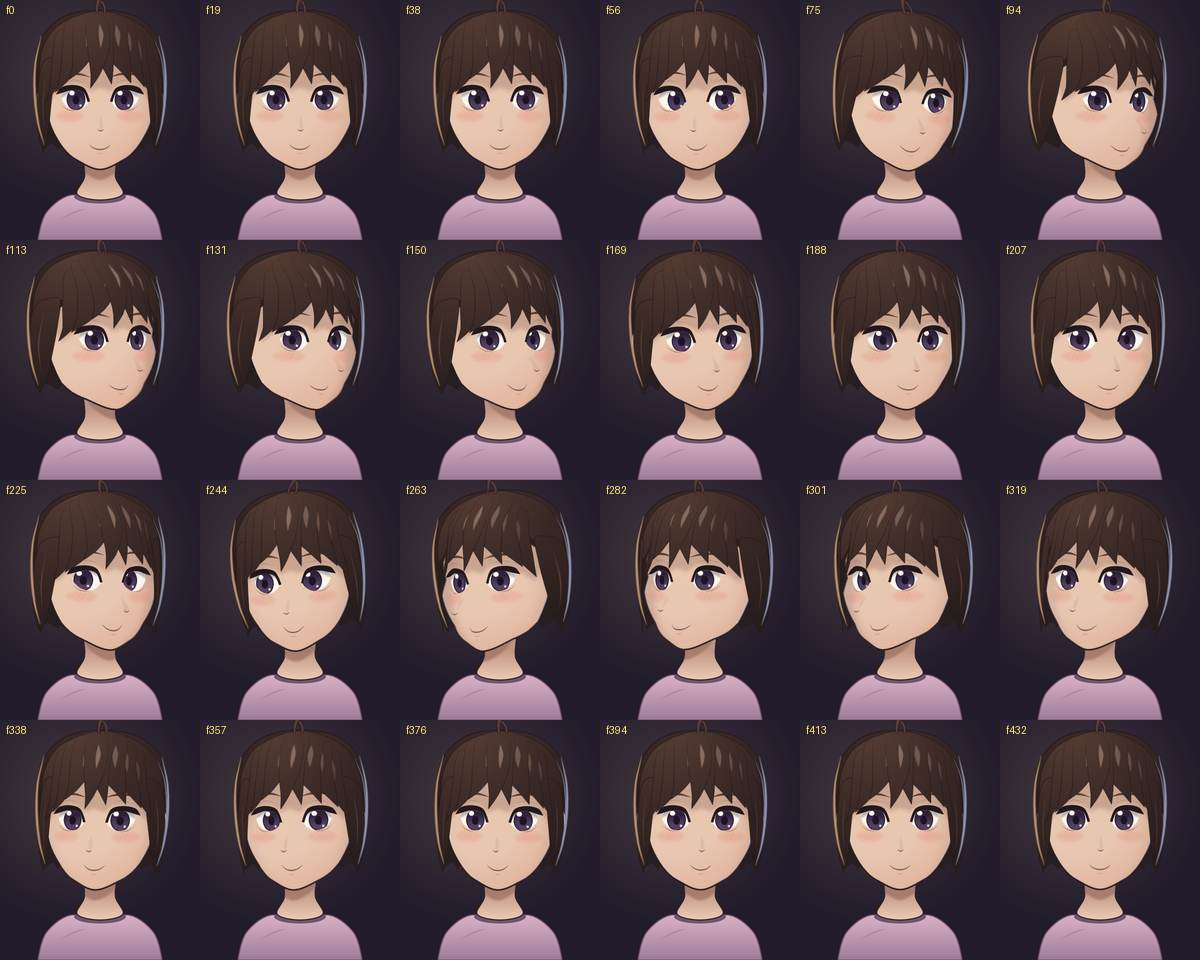
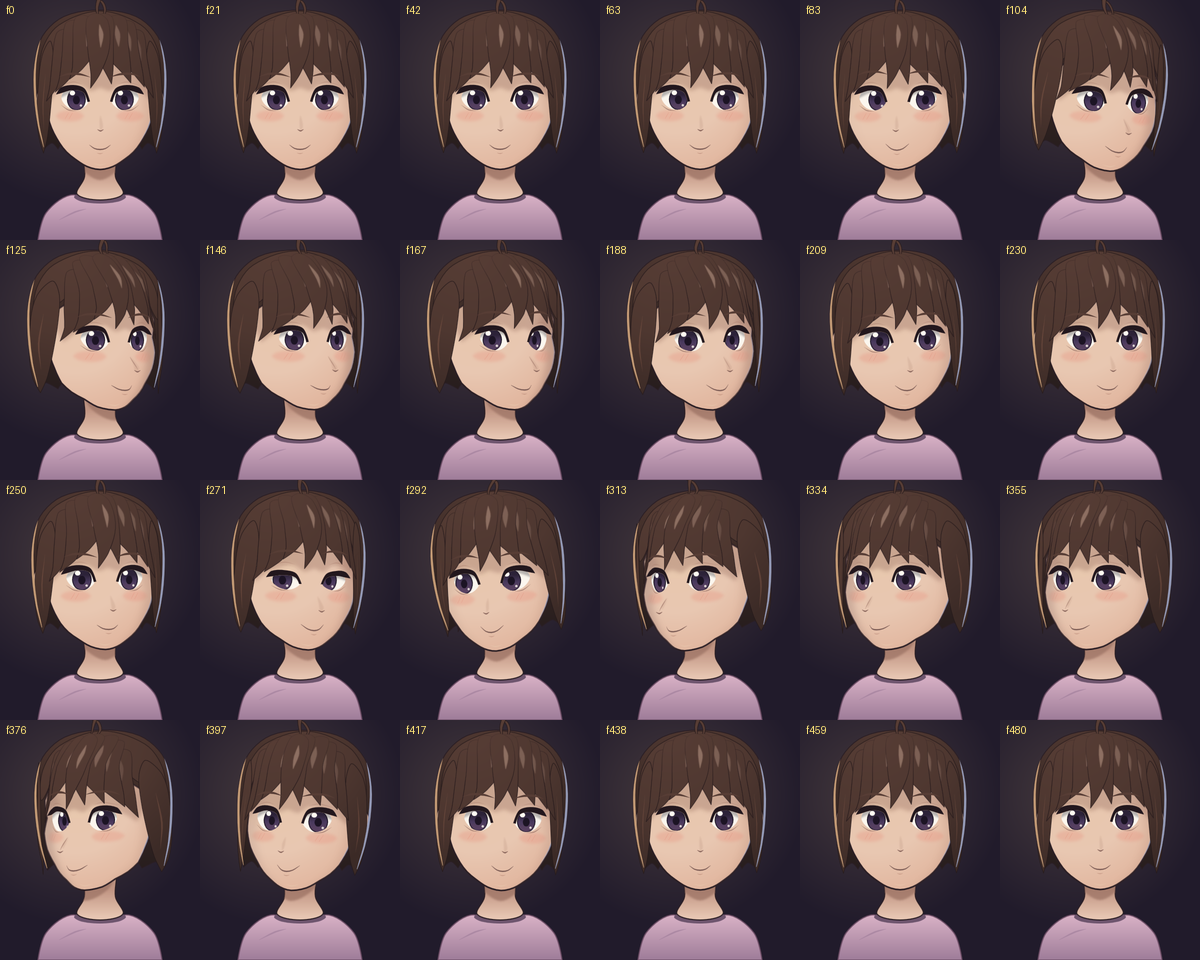
rive: head v2 round-3 evidence
metrics.txt adds frozen-frame, look-spacing and blink-interval lines.

diff --git a/rive/tools/review_head.py b/rive/tools/review_head.py
@@ -218,6 +218,10 @@ def metrics(paths: list[Path]) -> None:
               if diffs[i] > 0.004 and diffs[i] > 2 * diffs[i - 1] and diffs[i] > 2 * diffs[i + 1]]
     pts = motion_centroids(frames, rest)
     ch = gen_head.r.perform_turn(gen_head.TURN_TARGETS, gen_head.TURN_SECONDS)
+    bl = ch["blink"]
+    blinks = [round(i / 60, 2) for i in range(1, len(bl)) if bl[i] > 0 and bl[i - 1] == 0]
+    blink_gaps = [round(b - a, 2) for a, b in zip(blinks, blinks[1:])] + \
+        [round(gen_head.TURN_SECONDS - blinks[-1] + blinks[0], 2)]
     lines = [
         "2.5D head v2 - rive/head (generated by rive/tools/gen_head.py)",
         f"rive: {subprocess.run(['rive', '--version'], capture_output=True, text=True).stdout.strip()}",
@@ -228,14 +232,17 @@ def metrics(paths: list[Path]) -> None:
         "== Performed turn (PerformedTurn artboard, every frame, one CLI run per frame)",
         f"frames: {len(frames)} at 60 fps ({gen_head.TURN_SECONDS} s loop), yawTarget steps {gen_head.TURN_TARGETS}",
         f"pops, whole clip (motion_metrics.pops, k=4 x median, floor 0.01): {len(pops(diffs))} {pops(diffs)}",
-        "  note: the loop is mostly holds, so the whole-clip median is ~0 and every frame of a turn",
-        "  or blink clears 4 x median; the two lines below are the meaningful checks.",
+        "  (a whole-clip median is dominated by holds; the windowed checks below are the robust ones)",
         f"pops, moving frames only (diff > 0.001, n={len(moving_idx)}): {len(moving_pops)} at frames {moving_pops}",
         f"pops, 9-frame window (diff > 4 x local median and > 0.01): {len(local_pops)} {local_pops}",
         f"local spikes (a diff > 2 x both neighbours and > 0.004): {len(spikes)} {spikes}",
         f"frame diff min / median / max: {min(diffs):.5f} / {statistics.median(diffs):.5f} / {max(diffs):.5f}",
         f"jerk (moving-pixel centroid vs frame 0): {jerk(pts):,.0f} px/s^3",
         f"loop seam (last vs first / median diff): {loop_seam(frames):.3f}",
+        f"frozen frames (diff exactly 0, seam included): {sum(1 for x in diffs if x == 0)}",
+        f"look spacing (s): {[round(b[0] - a[0], 2) for a, b in zip(gen_head.TURN_TARGETS[1:], gen_head.TURN_TARGETS[2:])]}"
+        f" + {round(gen_head.TURN_SECONDS - gen_head.TURN_TARGETS[-1][0] + gen_head.TURN_TARGETS[1][0], 2)} across the seam",
+        f"blink starts (s): {blinks}; intervals incl. the seam: {blink_gaps}",
         "channel ranges: " + ", ".join(f"{k} {min(v):+.2f}..{max(v):+.2f}" for k, v in ch.items()),
         "",
         "== History-free (static Head: --advance=1 vs --advance=40, rive --compare)",
